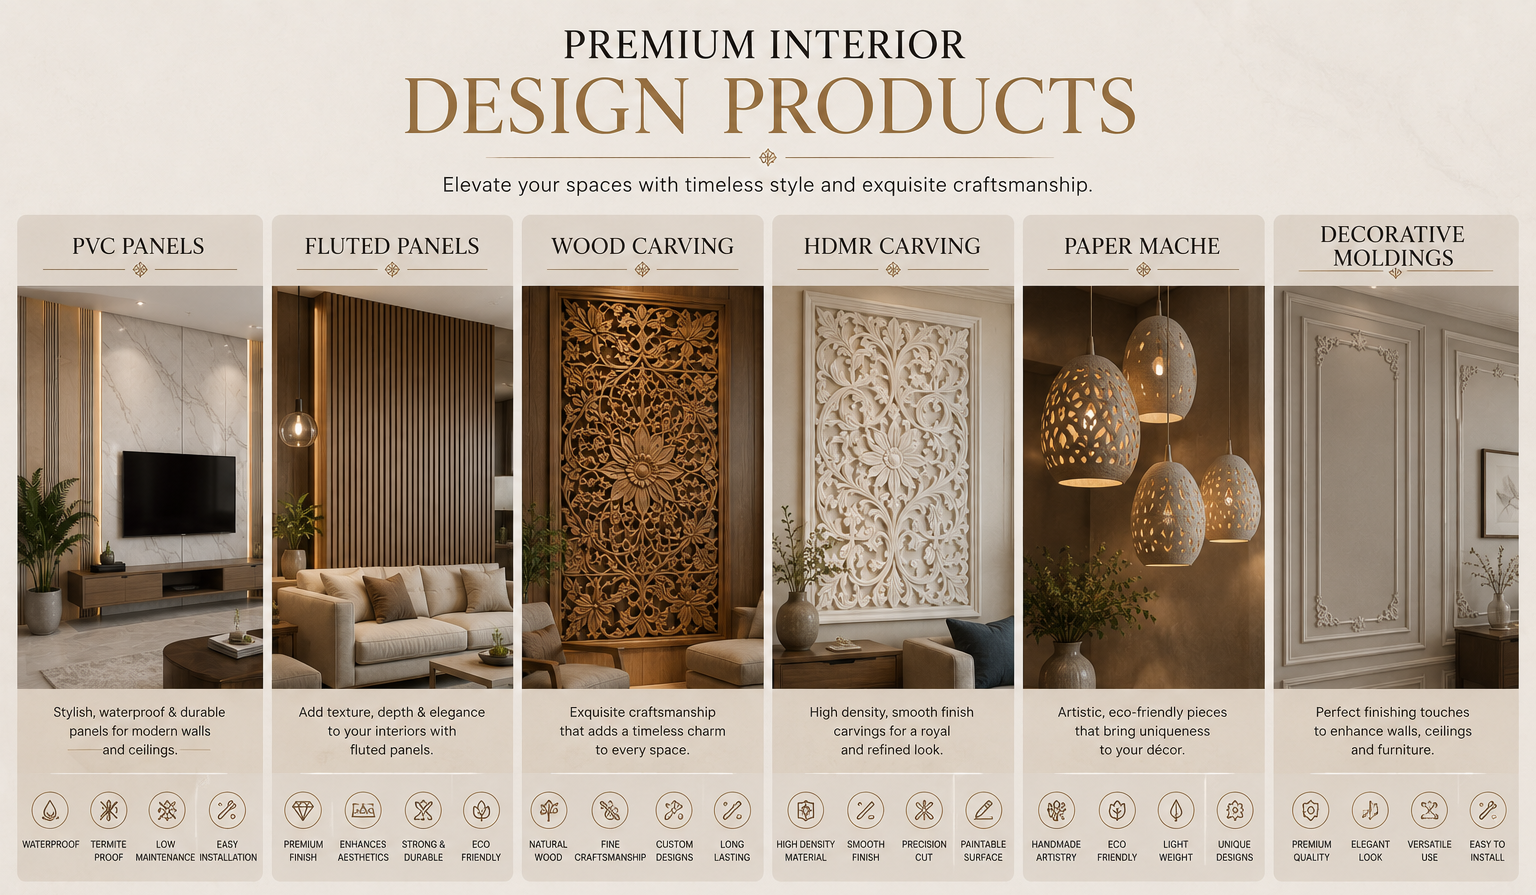
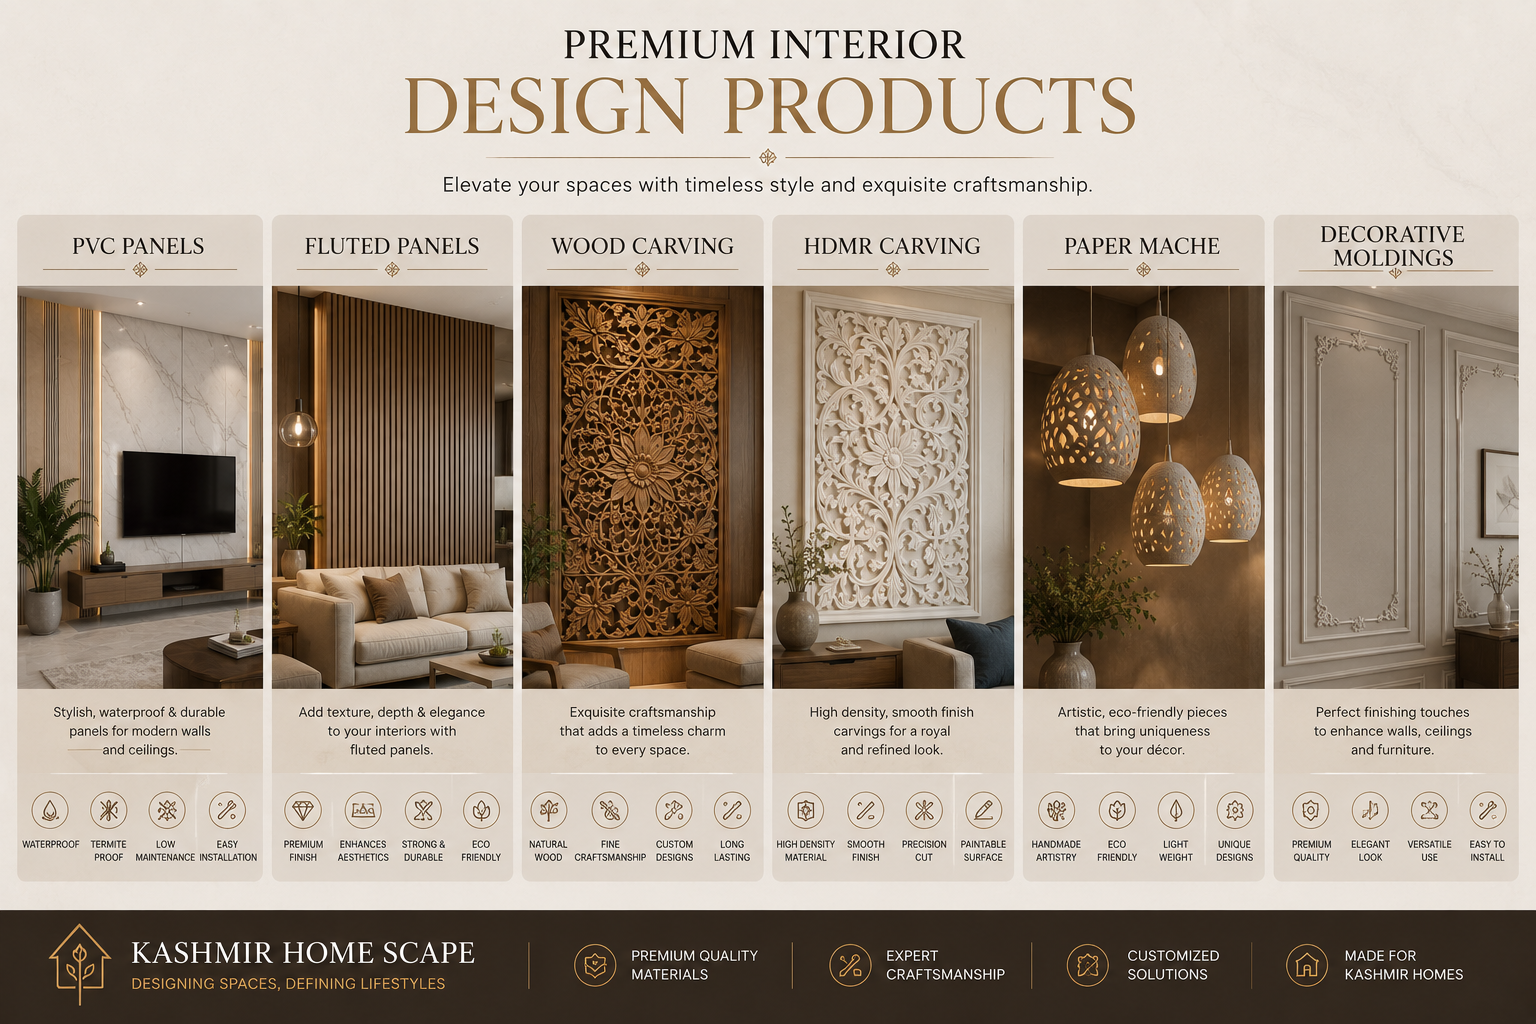
updatell

diff --git a/style.css b/style.css
@@ -1,6 +1,7 @@
 /* Base Reset & Modern Typography */
 * { box-sizing: border-box; margin: 0; padding: 0; }
 html { scroll-behavior: smooth; }
+
 /* Deep charcoal background with off-white text for high-end feel */
 body { font-family: 'Outfit', sans-serif; color: #d1d1d1; background-color: #0a0a0c; line-height: 1.6; overflow-x: hidden; }
 
@@ -19,9 +20,13 @@ header {
     z-index: 1000; 
     border-bottom: 1px solid rgba(255,255,255,0.05);
 }
+
+/* Logo Image & Text Layout */
 .logo { display: flex; align-items: center; gap: 12px; text-decoration: none; }
 .logo img { max-height: 40px; width: auto; object-fit: contain; border-radius: 4px; }
-.logo span { font-weight: 700; font-size: 1.5rem; letter-spacing: -0.5px; color: #ffffff; }nav a { margin-left: 30px; text-decoration: none; color: #888888; font-size: 1rem; font-weight: 500; transition: color 0.3s ease; }
+.logo span { font-weight: 700; font-size: 1.5rem; letter-spacing: -0.5px; color: #ffffff; }
+
+nav a { margin-left: 30px; text-decoration: none; color: #888888; font-size: 1rem; font-weight: 500; transition: color 0.3s ease; }
 nav a:hover { color: #d4af37; } /* Luxury Champagne Gold */
 
 /* Moody Premium Hero Section */
@@ -52,7 +57,7 @@ nav a:hover { color: #d4af37; } /* Luxury Champagne Gold */
     width: 100%; 
     height: 600px; 
     background-color: #111; 
-    border-radius: 8px; /* Sharper corners for modern luxury */
+    border-radius: 8px; 
     box-shadow: 0 20px 50px rgba(0,0,0,0.5); 
     overflow: hidden;
     cursor: grab;
@@ -61,7 +66,8 @@ nav a:hover { color: #d4af37; } /* Luxury Champagne Gold */
 #panorama-viewer:active { cursor: grabbing; }
 .viewer-hint { font-size: 0.9rem; color: #666; margin-top: 15px; text-align: center; font-weight: 300; letter-spacing: 1px; }
 
-/* 1. Make the cards flex containers so they span equal heights */
+/* Interactive Product Cards */
+.catalog-grid { display: grid; grid-template-columns: repeat(auto-fit, minmax(320px, 1fr)); gap: 40px; }
 .product-card { 
     background: #141416; 
     border: 1px solid rgba(255,255,255,0.03);
@@ -69,79 +75,90 @@ nav a:hover { color: #d4af37; } /* Luxury Champagne Gold */
     overflow: hidden; 
     box-shadow: 0 10px 30px rgba(0,0,0,0.3);
     transition: all 0.4s cubic-bezier(0.165, 0.84, 0.44, 1);
-    display: flex;
-    flex-direction: column;
-    height: 100%; /* Keeps all cards uniform in height */
+}
+.product-card:hover { 
+    transform: translateY(-10px); 
+    border-color: rgba(212, 175, 55, 0.3);
+    box-shadow: 0 20px 40px rgba(0,0,0,0.6); 
 }
 
-/* 2. Make the image much larger in length (height increased from 280px to 380px) */
-.product-swiper { 
+/* Product Swiper Image Settings (Taller image, no stretching) */
+.product-swiper { width: 100%; height: 340px; }
+.swiper-slide { 
+    background-color: #1a1a1c; 
+    overflow: hidden; 
+    display: flex; 
+    align-items: center; 
+    justify-content: center; 
+    height: 100%; 
+}
+.swiper-slide img { 
     width: 100%; 
-    height: 380px; 
-}
-
-/* 3. Turn the info area into a flexbox to compress the gray space */
-.product-info { 
-    padding: 25px; 
-    position: relative; 
-    z-index: 2; 
-    background: #141416; 
-    border-top: 1px solid rgba(255,255,255,0.02); 
-    display: flex;
-    flex-direction: column;
-    flex-grow: 1; /* Makes this area dynamically fill remaining space */
-}
-
-/* 4. Push the button to the absolute bottom of the card */
-.inquire-btn { 
-    display: inline-block; 
-    width: 100%; 
-    text-align: center; 
-    padding: 14px; 
-    background: rgba(255,255,255,0.03); 
-    color: #ffffff; 
-    border: 1px solid rgba(255,255,255,0.1); 
-    text-decoration: none; 
-    border-radius: 4px; 
-    font-size: 0.9rem; 
-    font-weight: 500; 
-    letter-spacing: 1px; 
-    transition: all 0.3s ease; 
-    text-transform: uppercase; 
-    margin-top: auto; /* THIS is the magic line that forces it to the bottom */
-}
-
-/* Product Swiper Settings */
-.product-swiper { width: 100%; height: 280px; }
-.swiper-slide { background-color: #1a1a1c; overflow: hidden; display: flex; align-items: center; justify-content: center; }
-.swiper-slide img { width: 100%; height: 100%; object-fit: cover; } /* This ensures your images fill the box perfectly */
+    height: 100%; 
+    object-fit: cover; 
+    cursor: zoom-in; /* Cursor for the lightbox pop-up */
+} 
 
 /* Luxury Champagne Gold Pagination Dots */
 .swiper-pagination-bullet { background: #ffffff; opacity: 0.3; transition: all 0.3s ease; }
 .swiper-pagination-bullet-active { background: #d4af37; opacity: 1; transform: scale(1.2); }
 
-/* Product Info Text & Buttons */
-.product-info { padding: 30px; position: relative; z-index: 2; background: #141416; border-top: 1px solid rgba(255,255,255,0.02); }
+/* Product Info Text & Buttons (Smaller gray area) */
+.product-info { 
+    padding: 20px; 
+    position: relative; 
+    z-index: 2; 
+    background: #141416; 
+    border-top: 1px solid rgba(255,255,255,0.02); 
+}
 .product-category { font-size: 0.75rem; text-transform: uppercase; color: #d4af37; font-weight: 700; letter-spacing: 2px; margin-bottom: 10px; }
-.product-title { font-weight: 600; font-size: 1.3rem; margin-bottom: 25px; color: #ffffff; }
+.product-title { font-weight: 600; font-size: 1.3rem; margin-bottom: 15px; color: #ffffff; }
 .inquire-btn { display: inline-block; width: 100%; text-align: center; padding: 14px; background: rgba(255,255,255,0.03); color: #ffffff; border: 1px solid rgba(255,255,255,0.1); text-decoration: none; border-radius: 4px; font-size: 0.9rem; font-weight: 500; letter-spacing: 1px; transition: all 0.3s ease; text-transform: uppercase; }
 .inquire-btn:hover { background: #ffffff; color: #000000; border-color: #ffffff; }
+
+/* Horizontal Panning Catalog Styles */
+.catalog-pan-container {
+    width: 100%;
+    overflow-x: auto; 
+    overflow-y: hidden;
+    border-radius: 8px;
+    box-shadow: 0 10px 30px rgba(0,0,0,0.3);
+    border: 1px solid rgba(255,255,255,0.05);
+    cursor: grab;
+    scrollbar-width: none; /* Hide scrollbar for a clean look */
+    -ms-overflow-style: none;
+}
+.catalog-pan-container::-webkit-scrollbar { display: none; }
+.catalog-pan-container:active { cursor: grabbing; }
+
+.pan-image {
+    height: 600px; 
+    width: auto; 
+    max-width: none; 
+    display: block;
+}
 
 /* Floating WhatsApp Button */
 .whatsapp-float { position: fixed; bottom: 30px; right: 30px; background-color: #25D366; color: white; border-radius: 50px; padding: 15px 25px; font-weight: 600; font-size: 1rem; text-decoration: none; box-shadow: 0 10px 30px rgba(37, 211, 102, 0.2); z-index: 1000; transition: all 0.3s ease; }
 .whatsapp-float:hover { transform: translateY(-5px) scale(1.05); box-shadow: 0 15px 35px rgba(37, 211, 102, 0.4); }
 
-/* Mobile Responsiveness */
-@media (max-width: 768px) {
-    .hero h1 { font-size: 2.2rem; }
-    #panorama-viewer { height: 400px; }
-    header { padding: 15px 5%; }
-    .hero { height: 75vh; }
+/* Custom Image Footer Styling */
+.custom-footer {
+    width: 100%;
+    margin-top: 40px;
+    background-color: #0a0a0c; 
+    display: flex;
+    justify-content: center;
+    border-top: 1px solid rgba(255,255,255,0.05);
+}
+.custom-footer img {
+    width: 100%;
+    max-width: 1400px; 
+    height: auto;
+    display: block;
 }
 
 /* Image Lightbox Modal Styling */
-.swiper-slide img { cursor: zoom-in; } /* Shows a magnifying glass cursor */
-
 .modal {
     display: none; 
     position: fixed; 
@@ -185,31 +202,11 @@ nav a:hover { color: #d4af37; } /* Luxury Champagne Gold */
 }
 .close-modal:hover { color: #d4af37; }
 
-/* Horizontal Panning Catalog Styles */
-.catalog-pan-container {
-    width: 100%;
-    overflow-x: auto; 
-    overflow-y: hidden;
-    border-radius: 8px;
-    box-shadow: 0 10px 30px rgba(0,0,0,0.3);
-    border: 1px solid rgba(255,255,255,0.05);
-    cursor: grab;
-    /* Hide scrollbar for a clean, app-like look */
-    scrollbar-width: none; /* Firefox */
-    -ms-overflow-style: none;  /* IE and Edge */
-}
-.catalog-pan-container::-webkit-scrollbar {
-    display: none; /* Chrome, Safari */
-}
-.catalog-pan-container:active { cursor: grabbing; }
-
-.pan-image {
-    height: 600px; /* Forces the image to be tall and readable */
-    width: auto; /* Lets the width stretch endlessly to the right */
-    max-width: none; 
-    display: block;
-}
-
+/* Mobile Responsiveness */
 @media (max-width: 768px) {
-    .pan-image { height: 450px; } /* Slightly smaller for mobile phones */
+    .hero h1 { font-size: 2.2rem; }
+    #panorama-viewer { height: 400px; }
+    header { padding: 15px 5%; }
+    .hero { height: 75vh; }
+    .pan-image { height: 450px; } /* Smaller panning image for phones */
 }

diff --git a/index.html b/index.html
@@ -3,7 +3,7 @@
 <head>
     <meta charset="UTF-8">
     <meta name="viewport" content="width=device-width, initial-scale=1.0">
-    <title>Kashmir Home Scape | Premium Interior Design</title>
+    <title>Kashmir Home Scape  | Premium Interior Design</title>
     
     <link rel="preconnect" href="https://fonts.googleapis.com">
     <link rel="preconnect" href="https://fonts.gstatic.com" crossorigin>
